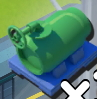
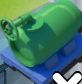
增加新版本4个货物图片和配置及更新一些货物图片以提升识别率

diff --git a/prop.py b/prop.py
@@ -88,6 +88,10 @@ BUFF_PAIR = {
     BuildingType.零件厂: [BuildingType.五金店],
     BuildingType.企鹅机械: [BuildingType.零件厂],
     BuildingType.人民石油: [BuildingType.加油站],
+    BuildingType.梦想公寓: [],
+    BuildingType.追梦快递: [],
+    BuildingType.游泳馆: [],
+    BuildingType.强国煤业: [],
 }
 # 建筑品质
 _RANK_NORMAL = 0
@@ -124,6 +128,10 @@ BUILDING_RANK = {
     BuildingType.零件厂: _RANK_RARE,
     BuildingType.企鹅机械: _RANK_EPIC,
     BuildingType.人民石油: _RANK_EPIC,
+    BuildingType.梦想公寓: _RANK_EPIC,
+    BuildingType.追梦快递: _RANK_RARE,
+    BuildingType.游泳馆: _RANK_EPIC,
+    BuildingType.强国煤业: _RANK_EPIC,
 }
 # 建筑对应火车货物
 BUILDING_2_GOODS = {
@@ -157,6 +165,10 @@ BUILDING_2_GOODS = {
     BuildingType.零件厂: TargetType.Steel,
     BuildingType.企鹅机械: TargetType.Kit,
     BuildingType.人民石油: TargetType.Oil,
+    BuildingType.梦想公寓: TargetType.Refrigerator,
+    BuildingType.追梦快递: TargetType.FlatCar,
+    BuildingType.游泳馆: TargetType.BeachUmbrella,
+    BuildingType.强国煤业: TargetType.Helmet,
 }
 
 # 终止信号

diff --git a/target.py b/target.py
@@ -36,3 +36,7 @@ class TargetType(Enum):
     Chlorine = 'targets/Chlorine.jpg'
     Schoolbag = 'targets/Schoolbag.jpg'
     Rank_btn = 'targets/Rank_btn.jpg'
+    Refrigerator = 'targets/Refrigerator.jpg'
+    FlatCar = 'targets/FlatCar.jpg'
+    BeachUmbrella = 'targets/BeachUmbrella.jpg'
+    Helmet = 'targets/Helmet.jpg'

diff --git a/building.py b/building.py
@@ -33,3 +33,7 @@ class BuildingType(Enum):
     零件厂 = 27
     企鹅机械 = 28
     人民石油 = 29
+    梦想公寓 = 30
+    追梦快递 = 31
+    游泳馆 = 32
+    强国煤业 = 33
